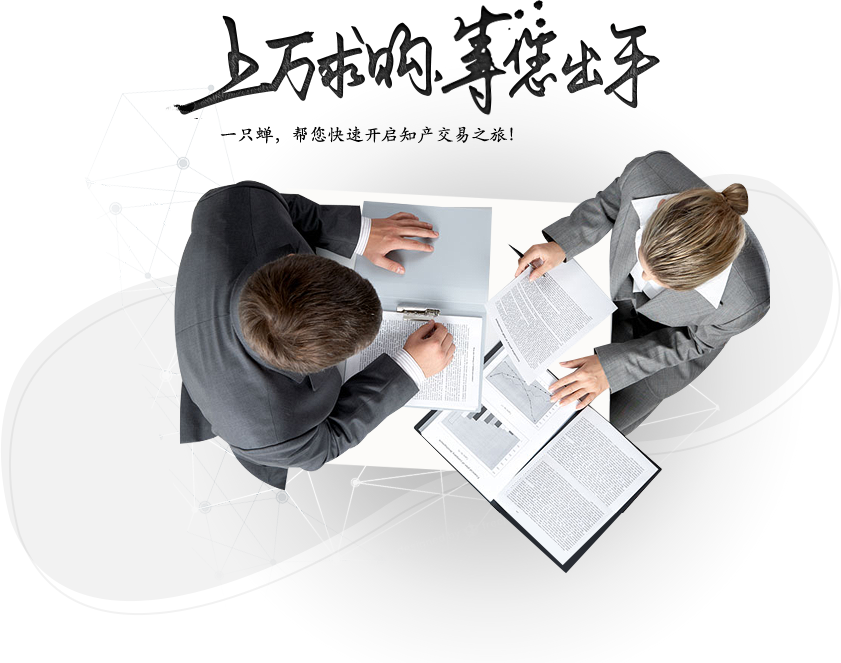
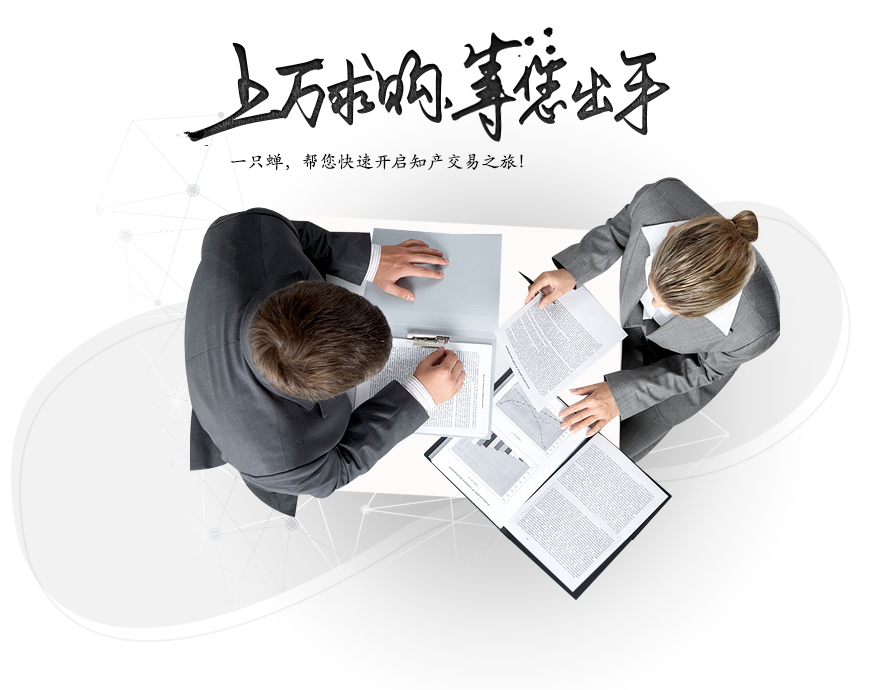
git-svn-id: http://192.168.0.5/svn/Member/trade/webseller@11572 8c2d0303-d7d2-0546-a2d7-8b6cbec2f4b4

Changed region(s): [[0.1855, 0.2112, 0.9275, 0.8748], [0.2164, 0.0, 0.8038, 0.2413], [0.2164, 0.5732, 0.2473, 0.6335]]

diff --git a/Static/1.0/css/sell-common.css b/Static/1.0/css/sell-common.css
@@ -766,16 +766,14 @@ body,html{
 .picScroll-top .bd{ padding:3px;  width: 960px;margin:auto;  }
 .picScroll-top .bd ul{ overflow:hidden; zoom:1;position: relative; }
 .picScroll-top .bd ul li{ text-align:center; zoom:1;overflow: hidden;}
-.picScroll-top .bd ul li div{min-height: 745px;line-height:745px;text-align:center;vertical-align:middle;width: 960px;background-position:center center;background-repeat: no-repeat;text-align: center;}
-.picScroll-top .bd ul li div img{max-height: 600px;vertical-align:middle;display: inline-block}
+.picScroll-top .bd ul li div{min-height: 745px;text-align:center;vertical-align:middle;width: 960px;background-position:center center;background-repeat: no-repeat;text-align: center;}
+.picScroll-top .bd ul li div img{vertical-align:middle;display: inline-block}
 .picScroll-top .bd ul li .pic{ text-align:center; }
 .picScroll-top .bd ul li .pic img{ width:180px; height:90px; display:block;  padding:2px; border:1px solid #ccc; }
 .picScroll-top .bd ul li .pic a:hover img{ border-color:#999;  }
 .picScroll-top .bd ul li .title{ line-height:24px; }
 @media screen and (max-height: 901px){
-    .picScroll-top .bd ul li div{
-        line-height:525px;
-    }
+    .picScroll-top .bd ul li div img{max-height: 600px;}
 }
 .sell-ban1{
     /*width: 841px;*/

diff --git a/App/View/login/login.index.html b/App/View/login/login.index.html
@@ -250,16 +250,16 @@
         });
     }
     var h;
-    var otp=$(".sell-lg-tp").outerHeight();
-    var obtm=$(".sell-btm").outerHeight();
-    var obte=$(".sell-btm-sm").outerHeight();
-    var owh=$(window).height();
-    var oh=owh-obte-obtm-otp;
-    $(".picScroll-top").css({"height":oh});
-    $(".tempWrap").css({"height":oh});
-    $(".picScroll-top .bd").css({"height":oh});
-    $(".picScroll-top .bd ul li").css({"height":oh});
-    $(".picScroll-top .bd ul li div").css({"height":oh});
+//    var otp=$(".sell-lg-tp").outerHeight();
+//    var obtm=$(".sell-btm").outerHeight();
+//    var obte=$(".sell-btm-sm").outerHeight();
+//    var owh=$(window).height();
+//    var oh=owh-obte-obtm-otp;
+//    $(".picScroll-top").css({"height":oh});
+//    $(".tempWrap").css({"height":oh});
+//    $(".picScroll-top .bd").css({"height":oh});
+//    $(".picScroll-top .bd ul li").css({"height":oh});
+//    $(".picScroll-top .bd ul li div").css({"height":oh});
 
     $(window).resize(function(){
         var otp=$(".sell-lg-tp").outerHeight();
@@ -305,7 +305,7 @@
 
     //获取图片高度
     h=$(".picList li").eq(0).outerHeight();
-   
+
     //焦点图
     $(".hd li").each(function(i){
         $(this).click(function(){
